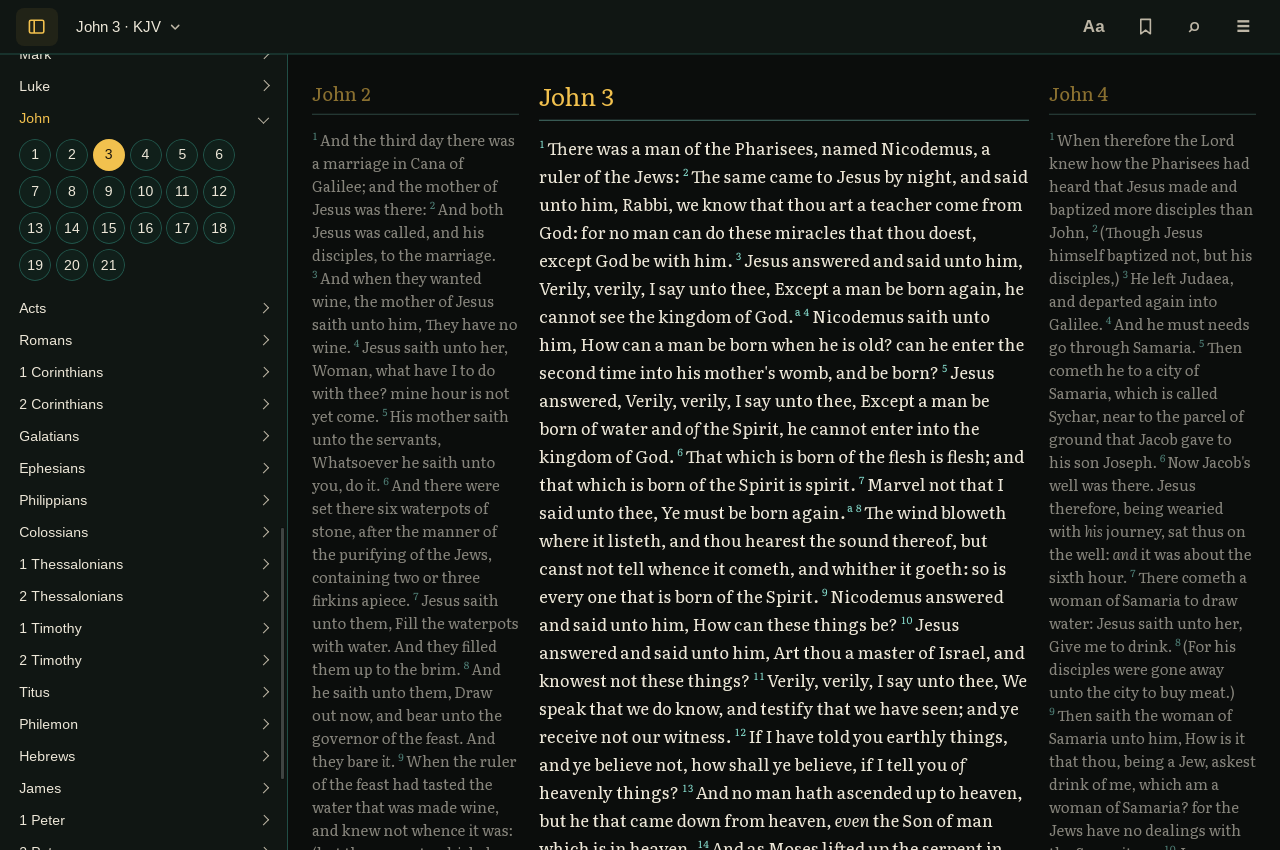
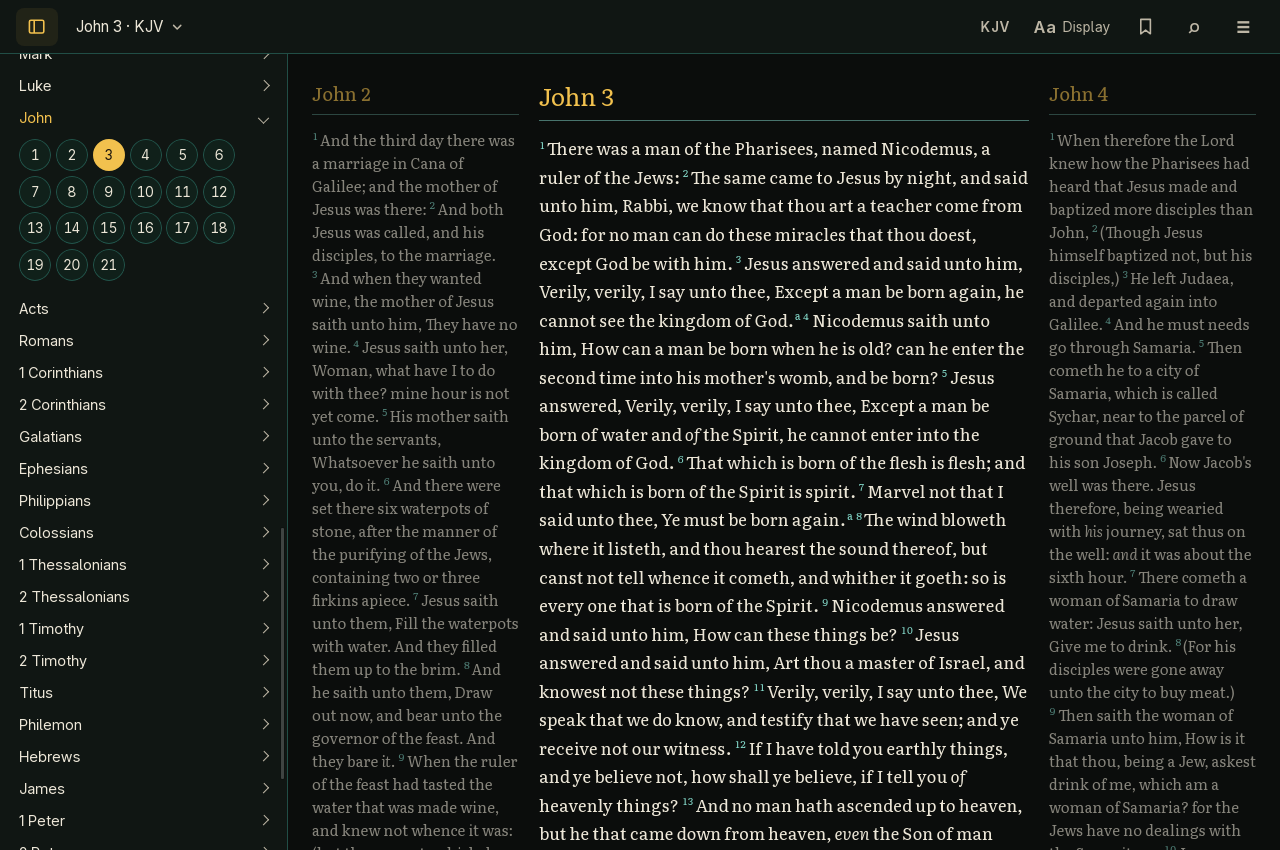
chore(release): v2.17.0
Cargo.toml, Cargo.lock, tauri.conf.json and PKGBUILD pkgver: 2.16.3 ->
2.17.0 (pkgrel stays 1; PKGBUILD remains a draft, not AUR-published).
The website shows version 2.17.0.

README: 2.6.0 through 2.16.3 update themselves to 2.17.0, and 2.5.0 and
older install 2.17.0 by hand once. A new screenshot by the translations
bullet shows the translation button's popover open, and the alt text of
the reading view and the BSB screenshot names the translation button.

Site: only the version changes; "2.6 through 2.16 update themselves to
this one" already covers every version before 2.17.0.

CHANGELOG: 2.17.0, with Added (the translation button, which shows the
translation being read and opens the translations and Compare, and T;
Aa says Display beside it on a wider window) and Changed (the
translations and Compare moved from Aa; clearer Notes export wording;
hover text on Export data... and Import data...), from #101. No settings,
data or export format changes.

The top bar changed, so every image showing it is recaptured with
tools/site/capture_screenshots.py --all: the ten README screenshots and
the site's compare and select images. The tool gains a
translation-button scene for the new screenshot. The site's hero,
og-image, search and theme images show none of the bar's buttons and
are left as they were.

diff --git a/site/index.html b/site/index.html
@@ -60,7 +60,7 @@
                         <a class="button button-primary" href="#download-windows">Download for Windows</a>
                         <a class="button button-secondary" href="#download-linux">Download for Linux</a>
                     </div>
-                    <p class="hero-note">Version 2.16.3, for 64-bit Windows and Linux computers. The Windows installer isn’t code-signed yet, so Windows will probably warn you before it runs. <a href="#faq-smartscreen">What to expect</a>.</p>
+                    <p class="hero-note">Version 2.17.0, for 64-bit Windows and Linux computers. The Windows installer isn’t code-signed yet, so Windows will probably warn you before it runs. <a href="#faq-smartscreen">What to expect</a>.</p>
                     <p class="touch-only touch-note">Gospel Getter is a desktop app for <strong>Windows and Linux computers</strong>. There’s no phone, tablet or Mac version. To install it, open this page on your computer.</p>
 
                     <ul class="facts">
@@ -239,7 +239,7 @@
         <section class="section section-alt download" id="download" aria-labelledby="download-title">
             <div class="wrap">
                 <h2 id="download-title">Download Gospel Getter</h2>
-                <p class="release-line"><strong>Version 2.16.3.</strong> Free, for 64-bit Windows and Linux. <a href="https://github.com/tossbaws/gospel-getter/releases/latest">What’s new</a></p>
+                <p class="release-line"><strong>Version 2.17.0.</strong> Free, for 64-bit Windows and Linux. <a href="https://github.com/tossbaws/gospel-getter/releases/latest">What’s new</a></p>
                 <p class="touch-only touch-note">You seem to be on a phone or tablet. Gospel Getter runs on <strong>Windows and Linux computers</strong> only, so open this page on your computer to install it.</p>
 
                 <div class="platforms">

diff --git a/tools/site/capture_screenshots.py b/tools/site/capture_screenshots.py
@@ -352,6 +352,16 @@ def readme_scenes(theme):
         # markers (John 3:3's is in view).
         dict(name="bsb", size=(1280, 850), prefs=look,
              position=("John", 3, "bsb"), steps="window.scrollTo(0, 0);"),
+        # The translation button's popover open over John 3 in the KJV: the
+        # translations, a line each, and Compare with its "with" choices.
+        dict(name="translation-button", size=(1280, 850), prefs=look,
+             position=("John", 3, "kjv"),
+             steps="""
+                window.scrollTo(0, 0);
+                __gg.click(document.getElementById('translation-toggle'));
+                await __gg.until(() => !document.getElementById('translation-popover').hidden
+                    && document.querySelector('#translation-choices [aria-checked="true"]'), 'the translations');
+             """),
         # Searching the words of the text.
         dict(name="search-results", size=(1280, 1000), prefs=look, position=("John", 3, "web"),
              steps="""

diff --git a/README.md b/README.md
@@ -10,7 +10,7 @@ search the whole Bible, compare any two translations verse by verse, and
 copy, bookmark or write notes on passages. No account and no network
 needed.
 
-![The reading view in the Chi Rho theme (parchment text on near-black, gold headings): John 3 in the KJV in the centre, with John 2 and John 4 faded on either side. The bar's reference button says "John 3 · KJV", and the sidebar on the left lists the books, with John's chapters open and 3 marked. Supplied words such as "of" are in italics, and small letters after verses 3 and 7 mark their footnotes](screenshots/reading-neighboring-chapters.png)
+![The reading view in the Chi Rho theme (parchment text on near-black, gold headings): John 3 in the KJV in the centre, with John 2 and John 4 faded on either side. The bar's reference button says "John 3 · KJV", its translation button "KJV" beside Aa Display, and the sidebar on the left lists the books, with John's chapters open and 3 marked. Supplied words such as "of" are in italics, and small letters after verses 3 and 7 mark their footnotes](screenshots/reading-neighboring-chapters.png)
 
 ## Features
 
@@ -23,7 +23,9 @@ needed.
   through the list. **About Gospel Getter** credits where each text
   comes from (see [Translations](#translations)).
 
-  ![John 3 in the Berean Standard Bible in the Chi Rho theme, with John 2 and John 4 faded on either side. The bar's reference button says "John 3 · BSB", and small letters after verses 3 and 7 mark the BSB's footnotes](screenshots/bsb.png)
+  ![John 3 in the Berean Standard Bible in the Chi Rho theme, with John 2 and John 4 faded on either side. The bar's reference button says "John 3 · BSB" and its translation button "BSB", and small letters after verses 3 and 7 mark the BSB's footnotes](screenshots/bsb.png)
+
+  ![The translation button's popover open in the Chi Rho theme, hanging from the "KJV" button in the top bar, beside Aa Display, over John 3 in the KJV. Under a Translation heading, three rows: KJV · King James Version · 1611/1769 · public domain, chosen; BSB · Berean Standard Bible · 2023 · public domain; and WEB · World English Bible · public domain. Below them, Compare (C) with BSB or WEB, with WEB chosen as the one to compare with](screenshots/translation-button.png)
 - **Read in context.** The chapter you're reading sits in the middle with
   the previous and next chapters faded on either side, scrolling with it.
   ← and → turn chapters across the whole Bible, and each chapter ends with
@@ -298,14 +300,14 @@ without you choosing **Update and restart** or **Update now**.
 latest version, so GitHub sees your IP address, as with any download.
 Nothing about your reading or your data is sent.
 
-**Coming from 2.6.0 through 2.16.2?** Each updates itself to 2.16.3: it
+**Coming from 2.6.0 through 2.16.3?** Each updates itself to 2.17.0: it
 offers the update when it starts (or from **Check now**, in **About
 Gospel Getter** from the ☰ menu in 2.7.0 and later, or in the Updates
 section of Settings in 2.6.0), if it's one of the installs above that
 update themselves.
 
 **Coming from 2.5.0 or older?** Those versions can't update themselves.
-Install 2.16.3 by hand once, from the
+Install 2.17.0 by hand once, from the
 [latest release](https://github.com/tossbaws/gospel-getter/releases/latest),
 over your current version; updates after that can come from inside the app.
 Upgrading keeps your data.

diff --git a/CHANGELOG.md b/CHANGELOG.md
@@ -4,6 +4,25 @@ What changed in each release of Gospel Getter, newest first. The format
 follows [Keep a Changelog](https://keepachangelog.com/en/1.1.0/), and
 versions follow [Semantic Versioning](https://semver.org/).
 
+## [2.17.0] - 2026-10-20
+
+### Added
+- **The translation button** in the top bar, just before **Aa**, shows the
+  translation you're reading (**KJV**, **BSB** or **WEB**) and opens the
+  translations and **Compare**. T opens it too.
+- On a wider window, **Aa** says **Display** beside it.
+
+### Changed
+- The translations and **Compare** (with its "with" choices) moved from
+  **Aa** to the new translation button. **Aa** keeps text size, line
+  spacing, width, layout, theme and reading mode.
+- **Export notes** says what it makes more plainly: a Markdown (.md) file
+  of your notes, plain text that opens in Notepad or any text editor.
+- **Export data…** and **Import data…** in the ☰ menu say what they do
+  when you hover over them: save a backup of your bookmarks, highlights,
+  notes and settings, and load a Gospel Getter backup from this or
+  another computer.
+
 ## [2.16.3] - 2026-10-19
 
 ### Fixed
